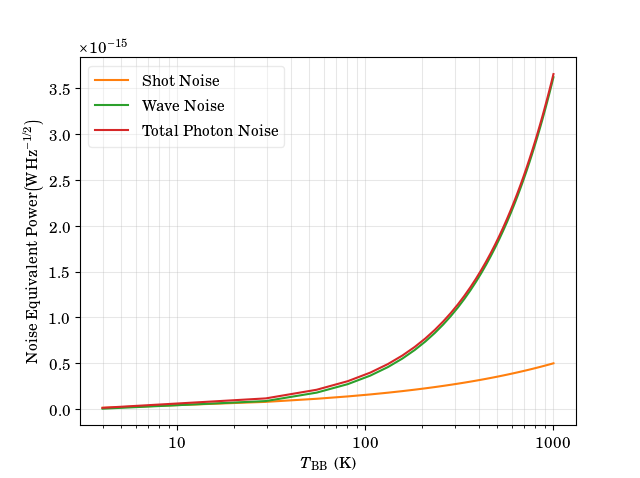
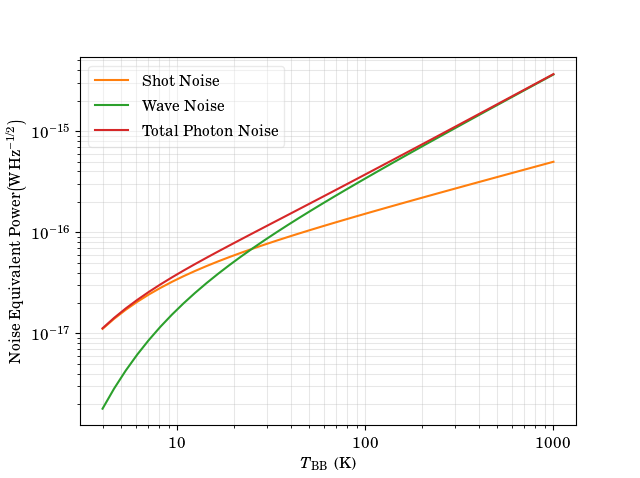
Update photon noise contributions plot
Log y axis for clarity

diff --git a/docs/noiseSources.md b/docs/noiseSources.md
@@ -65,7 +65,7 @@ power incident on the detector.
      src={useBaseUrl('img/shot_wave_NEP.png')} /><br />
 
 From this we see that the photon noise is dominated by the wave-noise term
-for any source with a temperature over approximately 40&nbsp;K.
+for any source with a temperature over approximately 25&nbsp;K.
 
 The above plot is created using the following script.
 
